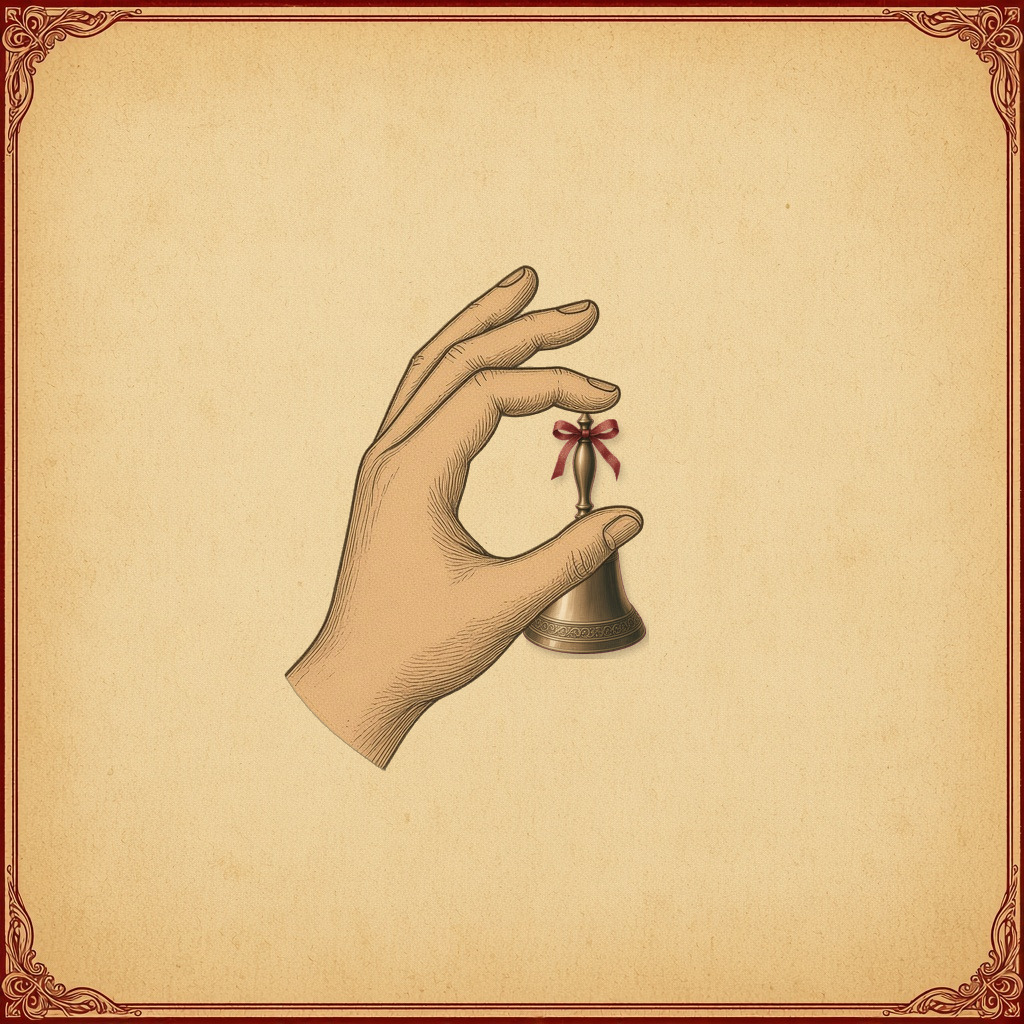
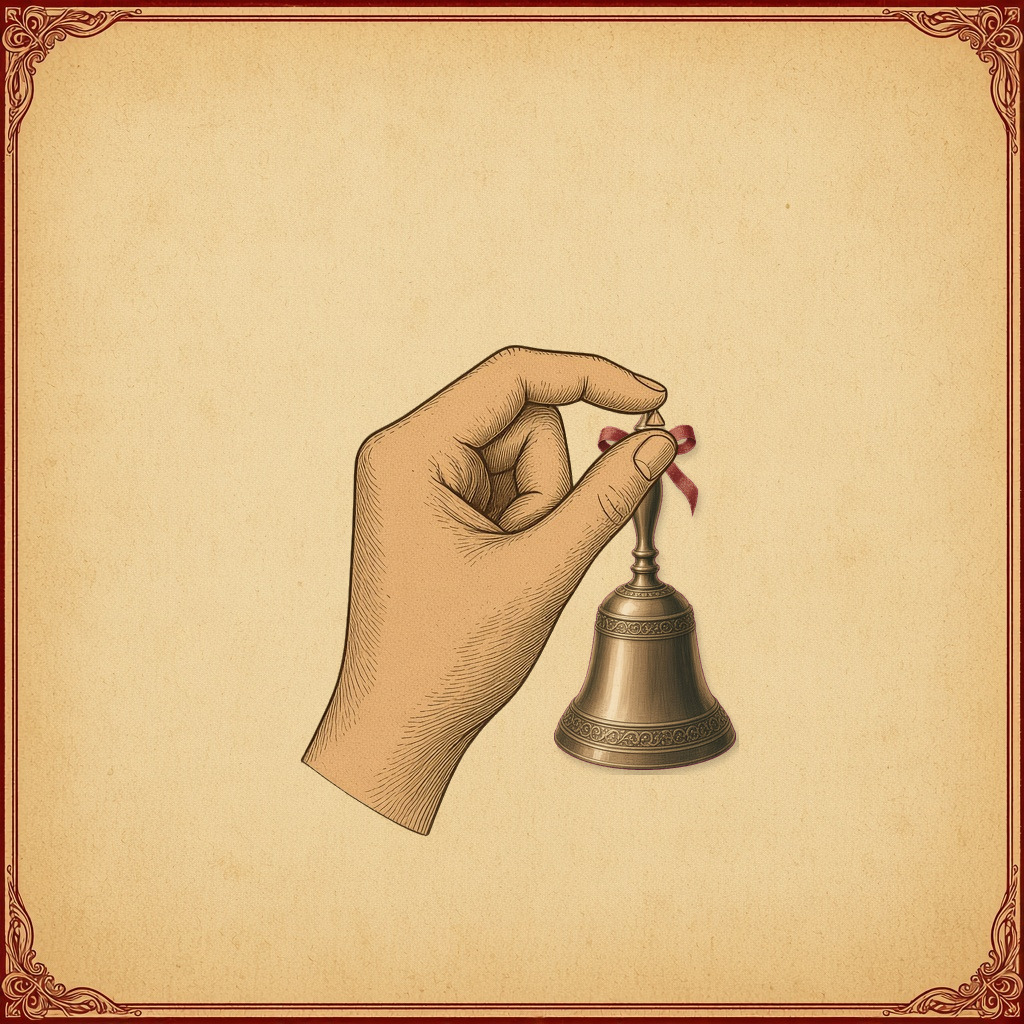
Fix guide-bell true pinch + paper cover star v20
Regen all-style guide-bell as thumb+index pinch (not OK), larger pack
bell with tip at pinch. Fix paper cover tree-topper with complete
star overlay (v20); bump cache VERS.

Changed region(s): [[0.2812, 0.25, 0.7188, 0.8125]]

diff --git a/hosts/neon/src/pixelAssets.js b/hosts/neon/src/pixelAssets.js
@@ -68,13 +68,13 @@ export function loadImage(src, { scrubMagenta = false } = {}) {
 const BASE = import.meta.env.BASE_URL
 
 export const PIXEL = {
-  guideSnow: `${BASE}pixel/guide-snow.jpg?v=62`,
-  guideGift: `${BASE}pixel/guide-gift.jpg?v=62`,
-  guideBell: `${BASE}pixel/guide-bell.jpg?v=62`,
-  guideAntlers: `${BASE}pixel/guide-antlers.jpg?v=62`,
-  guideHat: `${BASE}pixel/guide-hat.jpg?v=62`,
-  guideNext: `${BASE}pixel/guide-next.jpg?v=62`,
-  guideTree: `${BASE}pixel/guide-tree.jpg?v=62`,
+  guideSnow: `${BASE}pixel/guide-snow.jpg?v=63`,
+  guideGift: `${BASE}pixel/guide-gift.jpg?v=63`,
+  guideBell: `${BASE}pixel/guide-bell.jpg?v=63`,
+  guideAntlers: `${BASE}pixel/guide-antlers.jpg?v=63`,
+  guideHat: `${BASE}pixel/guide-hat.jpg?v=63`,
+  guideNext: `${BASE}pixel/guide-next.jpg?v=63`,
+  guideTree: `${BASE}pixel/guide-tree.jpg?v=63`,
   santaHat: `${BASE}pixel/santa-hat.png?v=3`,
   antlers: `${BASE}pixel/antlers.png?v=2`,
   gift: `${BASE}pixel/gift.png?v=52`,

diff --git a/hosts/paper/src/pixelAssets.js b/hosts/paper/src/pixelAssets.js
@@ -68,13 +68,13 @@ export function loadImage(src, { scrubMagenta = false } = {}) {
 const BASE = import.meta.env.BASE_URL
 
 export const PIXEL = {
-  guideSnow: `${BASE}pixel/guide-snow.jpg?v=62`,
-  guideGift: `${BASE}pixel/guide-gift.jpg?v=62`,
-  guideBell: `${BASE}pixel/guide-bell.jpg?v=62`,
-  guideAntlers: `${BASE}pixel/guide-antlers.jpg?v=62`,
-  guideHat: `${BASE}pixel/guide-hat.jpg?v=62`,
-  guideNext: `${BASE}pixel/guide-next.jpg?v=62`,
-  guideTree: `${BASE}pixel/guide-tree.jpg?v=62`,
+  guideSnow: `${BASE}pixel/guide-snow.jpg?v=63`,
+  guideGift: `${BASE}pixel/guide-gift.jpg?v=63`,
+  guideBell: `${BASE}pixel/guide-bell.jpg?v=63`,
+  guideAntlers: `${BASE}pixel/guide-antlers.jpg?v=63`,
+  guideHat: `${BASE}pixel/guide-hat.jpg?v=63`,
+  guideNext: `${BASE}pixel/guide-next.jpg?v=63`,
+  guideTree: `${BASE}pixel/guide-tree.jpg?v=63`,
   santaHat: `${BASE}pixel/santa-hat.png?v=3`,
   antlers: `${BASE}pixel/antlers.png?v=2`,
   gift: `${BASE}pixel/gift.png?v=52`,

diff --git a/hosts/pixel/src/pixelAssets.js b/hosts/pixel/src/pixelAssets.js
@@ -68,13 +68,13 @@ export function loadImage(src, { scrubMagenta = false } = {}) {
 const BASE = import.meta.env.BASE_URL
 
 export const PIXEL = {
-  guideSnow: `${BASE}pixel/guide-snow.jpg?v=62`,
-  guideGift: `${BASE}pixel/guide-gift.jpg?v=62`,
-  guideBell: `${BASE}pixel/guide-bell.jpg?v=62`,
-  guideAntlers: `${BASE}pixel/guide-antlers.jpg?v=62`,
-  guideHat: `${BASE}pixel/guide-hat.jpg?v=62`,
-  guideNext: `${BASE}pixel/guide-next.jpg?v=62`,
-  guideTree: `${BASE}pixel/guide-tree.jpg?v=62`,
+  guideSnow: `${BASE}pixel/guide-snow.jpg?v=63`,
+  guideGift: `${BASE}pixel/guide-gift.jpg?v=63`,
+  guideBell: `${BASE}pixel/guide-bell.jpg?v=63`,
+  guideAntlers: `${BASE}pixel/guide-antlers.jpg?v=63`,
+  guideHat: `${BASE}pixel/guide-hat.jpg?v=63`,
+  guideNext: `${BASE}pixel/guide-next.jpg?v=63`,
+  guideTree: `${BASE}pixel/guide-tree.jpg?v=63`,
   santaHat: `${BASE}pixel/santa-hat.png?v=3`,
   antlers: `${BASE}pixel/antlers.png?v=2`,
   gift: `${BASE}pixel/gift.png?v=52`,

diff --git a/hosts/vintage/src/pixelAssets.js b/hosts/vintage/src/pixelAssets.js
@@ -68,13 +68,13 @@ export function loadImage(src, { scrubMagenta = false } = {}) {
 const BASE = import.meta.env.BASE_URL
 
 export const PIXEL = {
-  guideSnow: `${BASE}pixel/guide-snow.jpg?v=62`,
-  guideGift: `${BASE}pixel/guide-gift.jpg?v=62`,
-  guideBell: `${BASE}pixel/guide-bell.jpg?v=62`,
-  guideAntlers: `${BASE}pixel/guide-antlers.jpg?v=62`,
-  guideHat: `${BASE}pixel/guide-hat.jpg?v=62`,
-  guideNext: `${BASE}pixel/guide-next.jpg?v=62`,
-  guideTree: `${BASE}pixel/guide-tree.jpg?v=62`,
+  guideSnow: `${BASE}pixel/guide-snow.jpg?v=63`,
+  guideGift: `${BASE}pixel/guide-gift.jpg?v=63`,
+  guideBell: `${BASE}pixel/guide-bell.jpg?v=63`,
+  guideAntlers: `${BASE}pixel/guide-antlers.jpg?v=63`,
+  guideHat: `${BASE}pixel/guide-hat.jpg?v=63`,
+  guideNext: `${BASE}pixel/guide-next.jpg?v=63`,
+  guideTree: `${BASE}pixel/guide-tree.jpg?v=63`,
   santaHat: `${BASE}pixel/santa-hat.png?v=3`,
   antlers: `${BASE}pixel/antlers.png?v=2`,
   gift: `${BASE}pixel/gift.png?v=52`,

diff --git a/src/pixelAssets.js b/src/pixelAssets.js
@@ -68,13 +68,13 @@ export function loadImage(src, { scrubMagenta = false } = {}) {
 const BASE = import.meta.env.BASE_URL
 
 export const PIXEL = {
-  guideSnow: `${BASE}pixel/guide-snow.jpg?v=62`,
-  guideGift: `${BASE}pixel/guide-gift.jpg?v=62`,
-  guideBell: `${BASE}pixel/guide-bell.jpg?v=62`,
-  guideAntlers: `${BASE}pixel/guide-antlers.jpg?v=62`,
-  guideHat: `${BASE}pixel/guide-hat.jpg?v=62`,
-  guideNext: `${BASE}pixel/guide-next.jpg?v=62`,
-  guideTree: `${BASE}pixel/guide-tree.jpg?v=62`,
+  guideSnow: `${BASE}pixel/guide-snow.jpg?v=63`,
+  guideGift: `${BASE}pixel/guide-gift.jpg?v=63`,
+  guideBell: `${BASE}pixel/guide-bell.jpg?v=63`,
+  guideAntlers: `${BASE}pixel/guide-antlers.jpg?v=63`,
+  guideHat: `${BASE}pixel/guide-hat.jpg?v=63`,
+  guideNext: `${BASE}pixel/guide-next.jpg?v=63`,
+  guideTree: `${BASE}pixel/guide-tree.jpg?v=63`,
   santaHat: `${BASE}pixel/santa-hat.png?v=3`,
   antlers: `${BASE}pixel/antlers.png?v=2`,
   gift: `${BASE}pixel/gift.png?v=52`,

diff --git a/hosts/neon/src/vintageAssets.js b/hosts/neon/src/vintageAssets.js
@@ -7,13 +7,13 @@ const BASE = import.meta.env.BASE_URL
 const V = `${BASE}vintage`
 
 export const VINTAGE = {
-  guideSnow: `${V}/guide-snow.jpg?v=14`,
-  guideGift: `${V}/guide-gift.jpg?v=14`,
-  guideBell: `${V}/guide-bell.jpg?v=14`,
-  guideAntlers: `${V}/guide-antlers.jpg?v=14`,
-  guideHat: `${V}/guide-hat.jpg?v=14`,
-  guideNext: `${V}/guide-next.jpg?v=14`,
-  guideTree: `${V}/guide-tree.jpg?v=14`,
+  guideSnow: `${V}/guide-snow.jpg?v=15`,
+  guideGift: `${V}/guide-gift.jpg?v=15`,
+  guideBell: `${V}/guide-bell.jpg?v=15`,
+  guideAntlers: `${V}/guide-antlers.jpg?v=15`,
+  guideHat: `${V}/guide-hat.jpg?v=15`,
+  guideNext: `${V}/guide-next.jpg?v=15`,
+  guideTree: `${V}/guide-tree.jpg?v=15`,
   santaHat: `${V}/santa-hat.png?v=3`,
   antlers: `${V}/antlers.png?v=3`,
   gift: `${V}/gift.png?v=3`,

diff --git a/hosts/paper/src/vintageAssets.js b/hosts/paper/src/vintageAssets.js
@@ -7,13 +7,13 @@ const BASE = import.meta.env.BASE_URL
 const V = `${BASE}vintage`
 
 export const VINTAGE = {
-  guideSnow: `${V}/guide-snow.jpg?v=14`,
-  guideGift: `${V}/guide-gift.jpg?v=14`,
-  guideBell: `${V}/guide-bell.jpg?v=14`,
-  guideAntlers: `${V}/guide-antlers.jpg?v=14`,
-  guideHat: `${V}/guide-hat.jpg?v=14`,
-  guideNext: `${V}/guide-next.jpg?v=14`,
-  guideTree: `${V}/guide-tree.jpg?v=14`,
+  guideSnow: `${V}/guide-snow.jpg?v=15`,
+  guideGift: `${V}/guide-gift.jpg?v=15`,
+  guideBell: `${V}/guide-bell.jpg?v=15`,
+  guideAntlers: `${V}/guide-antlers.jpg?v=15`,
+  guideHat: `${V}/guide-hat.jpg?v=15`,
+  guideNext: `${V}/guide-next.jpg?v=15`,
+  guideTree: `${V}/guide-tree.jpg?v=15`,
   santaHat: `${V}/santa-hat.png?v=1`,
   antlers: `${V}/antlers.png?v=1`,
   gift: `${V}/gift.png?v=1`,

diff --git a/hosts/vintage/src/vintageAssets.js b/hosts/vintage/src/vintageAssets.js
@@ -5,7 +5,7 @@ import { loadImage } from './pixelAssets.js'
 
 const BASE = import.meta.env.BASE_URL
 const V = `${BASE}vintage`
-const VER = '14'
+const VER = '15'
 
 export const VINTAGE = {
   guideSnow: `${V}/guide-snow.jpg?v=${VER}`,

diff --git a/src/vintageAssets.js b/src/vintageAssets.js
@@ -5,7 +5,7 @@ import { loadImage } from './pixelAssets.js'
 
 const BASE = import.meta.env.BASE_URL
 const V = `${BASE}vintage`
-const VER = '14'
+const VER = '15'
 
 export const VINTAGE = {
   guideSnow: `${V}/guide-snow.jpg?v=${VER}`,

diff --git a/hosts/paper/src/paperAssets.js b/hosts/paper/src/paperAssets.js
@@ -5,7 +5,7 @@ import { loadImage } from './pixelAssets.js'
 
 const BASE = import.meta.env.BASE_URL
 const P = `${BASE}paper`
-const VER = '17'
+const VER = '18'
 
 export const PAPER = {
   guideSnow: `${P}/guide-snow.jpg?v=${VER}`,

diff --git a/src/paperAssets.js b/src/paperAssets.js
@@ -5,7 +5,7 @@ import { loadImage } from './pixelAssets.js'
 
 const BASE = import.meta.env.BASE_URL
 const P = `${BASE}paper`
-const VER = '17'
+const VER = '18'
 
 export const PAPER = {
   guideSnow: `${P}/guide-snow.jpg?v=${VER}`,

diff --git a/hosts/neon/src/neonAssets.js b/hosts/neon/src/neonAssets.js
@@ -5,7 +5,7 @@ import { loadImage } from './pixelAssets.js'
 
 const BASE = import.meta.env.BASE_URL
 const N = `${BASE}neon`
-const VER = '16'
+const VER = '17'
 const FLAKE_VER = '4'
 
 export const NEON = {
